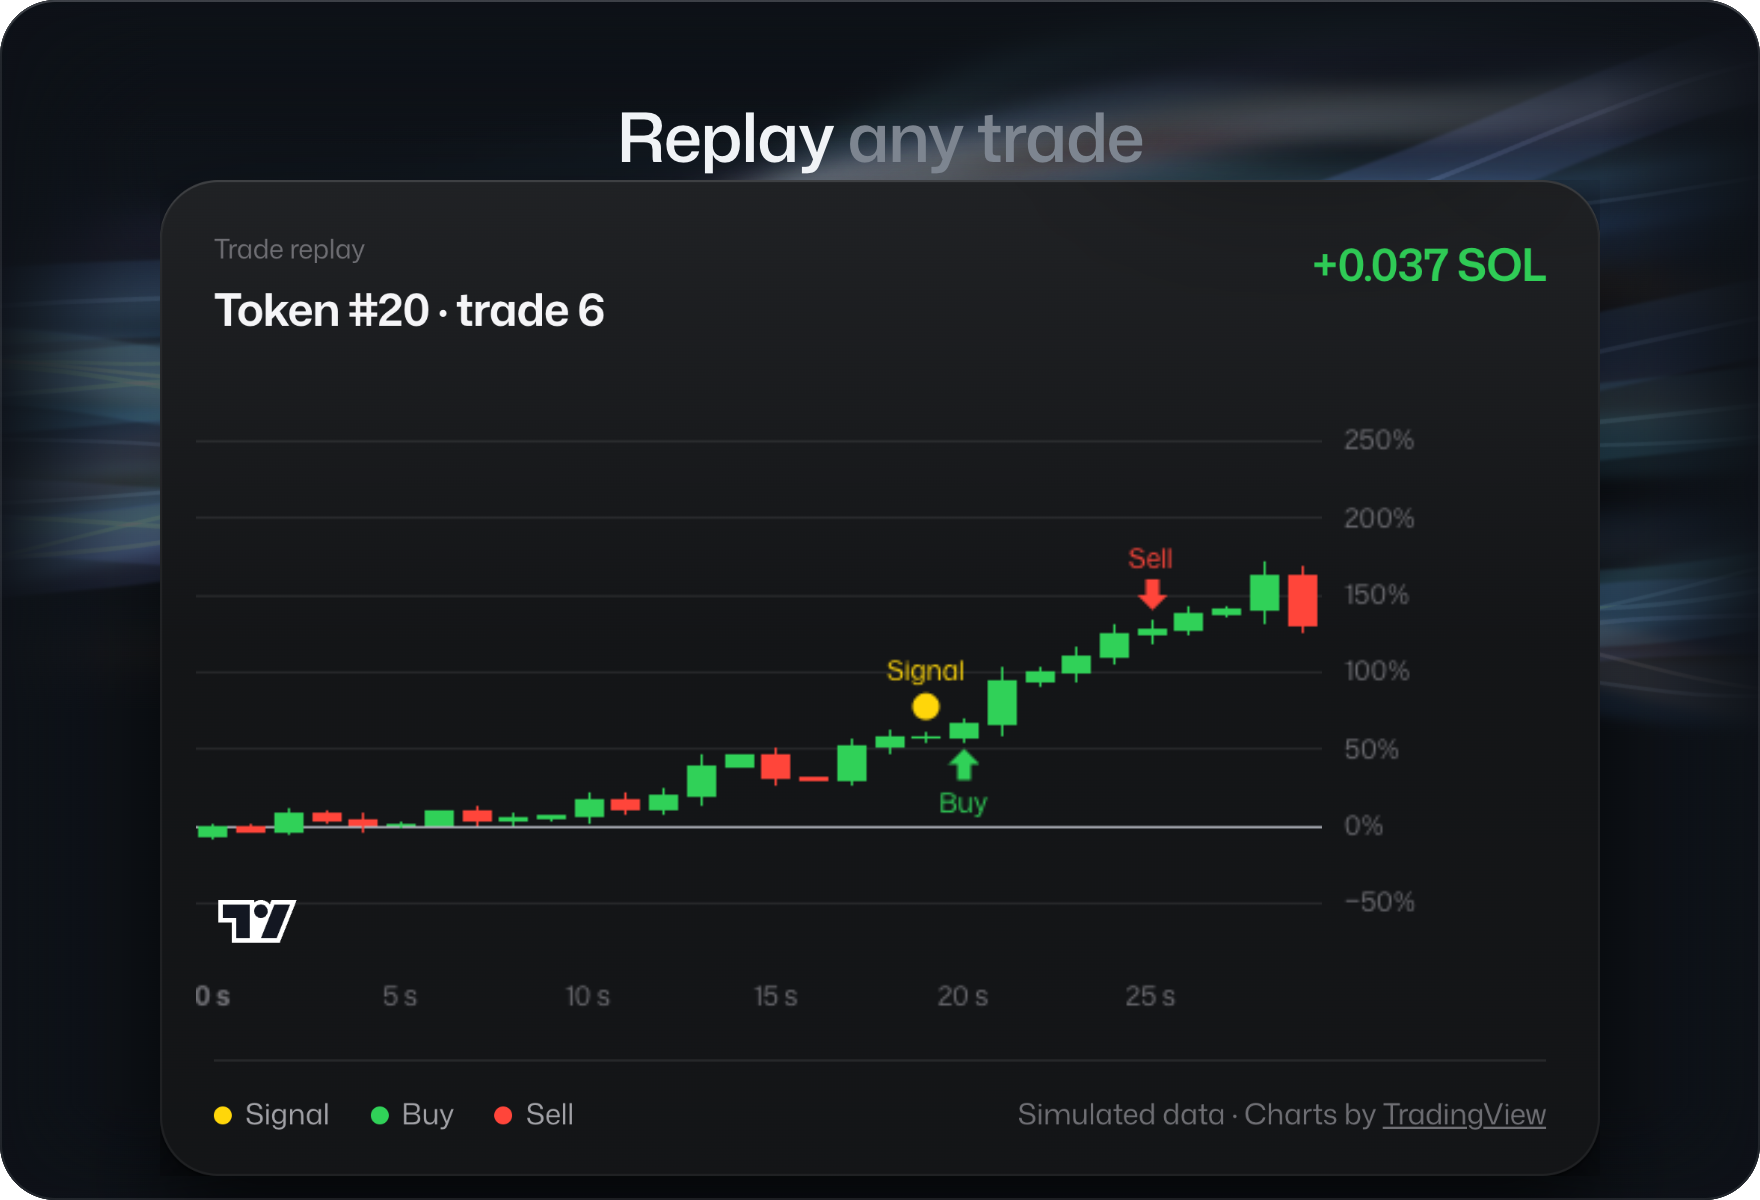
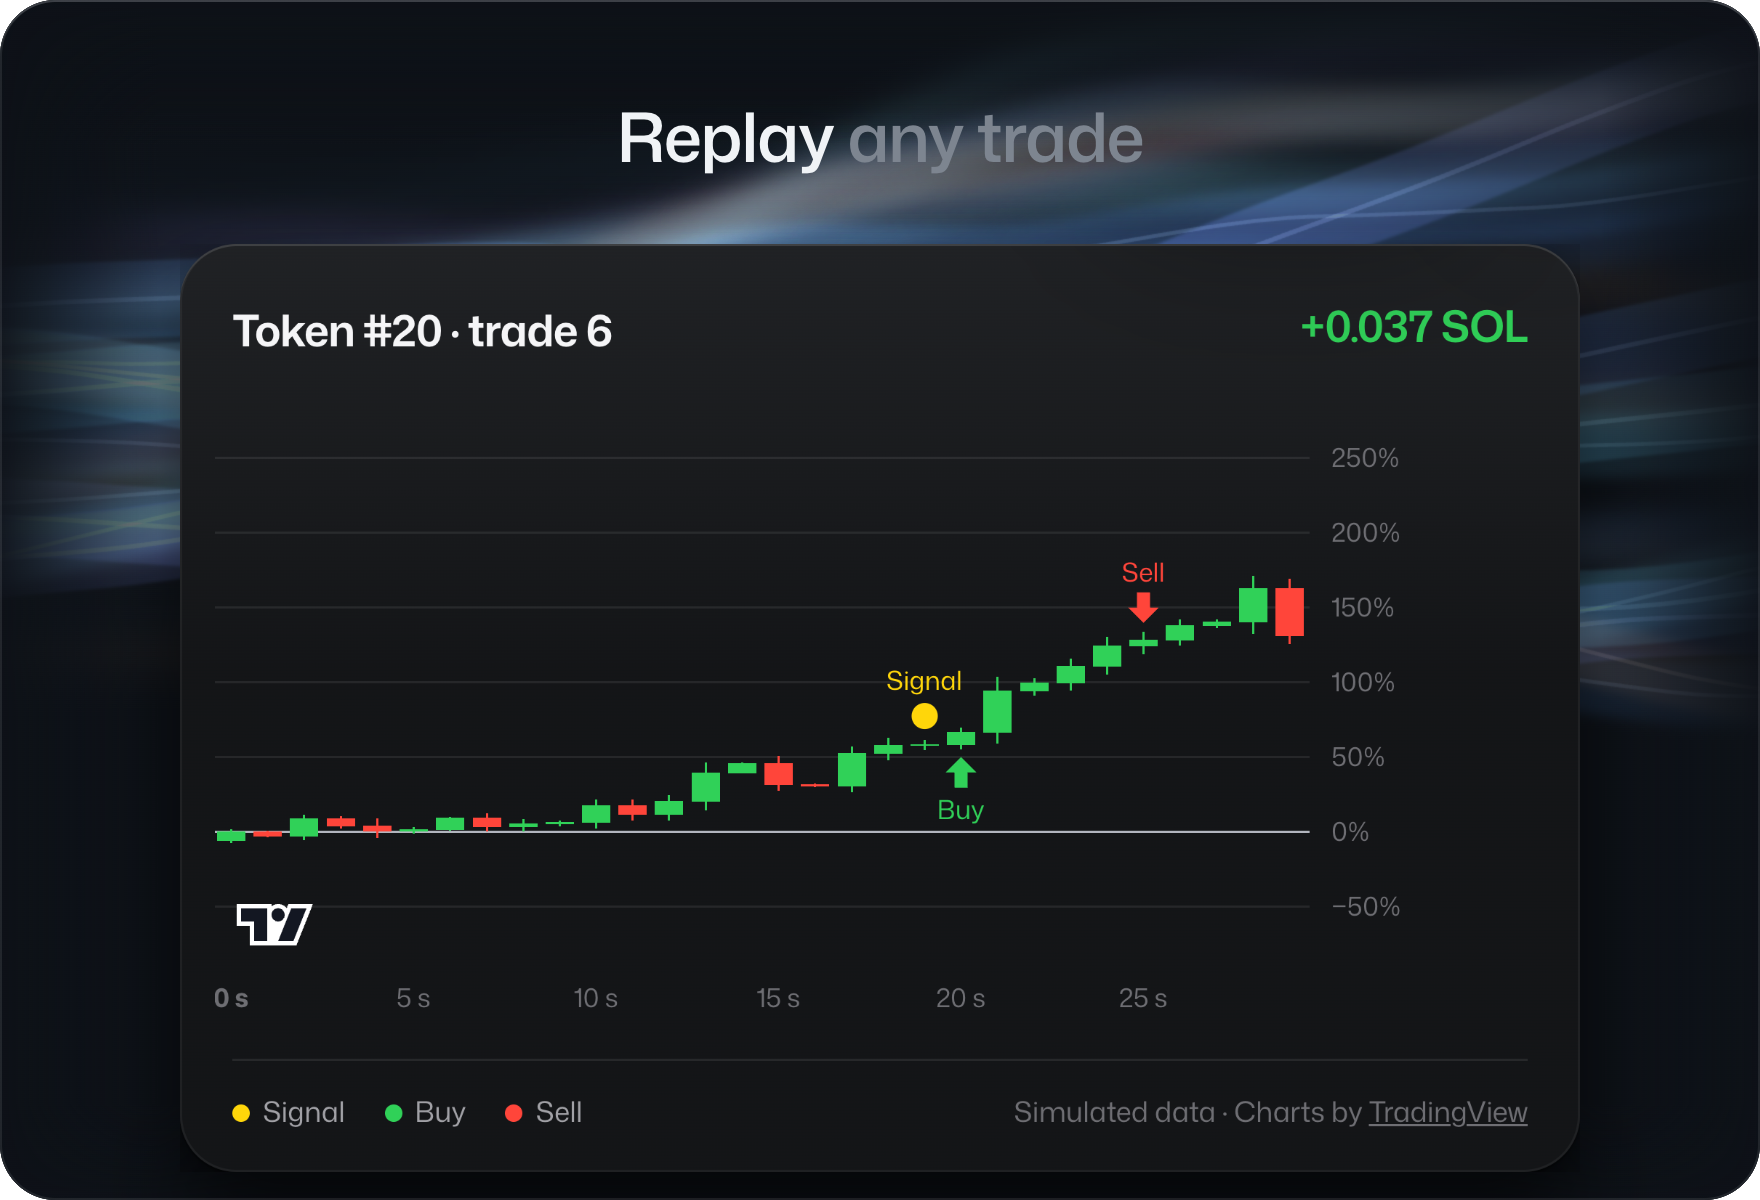
README: audience, stack, licence and scenes that stack on phones
State who PumpQuant is for and what it is built with, link the roadmap, and end with the licence. Scenes use a fixed 410 px width so they sit two by two on desktop and stack one per row on narrow screens. The replay scene is recaptured with its chart drawn at full resolution, without the card's small label, and with even spacing under its title.

diff --git a/README.md b/README.md
@@ -13,14 +13,16 @@
   <a href="#quick-start"><b>Quick start</b></a> ·
   <a href="#how-it-works"><b>How it works</b></a> ·
   <a href="#background"><b>Background</b></a> ·
-  <a href="docs/PARITY_CASE_STUDY.md"><b>Case study</b></a>
+  <a href="docs/PARITY_CASE_STUDY.md"><b>Case study</b></a> ·
+  <a href="ROADMAP.md"><b>Roadmap</b></a>
 </p>
 
 <p align="center">
   <img src="https://img.shields.io/badge/Python-3.12%2B-0a84ff?style=flat-square&labelColor=1c1c1e" alt="Python 3.12+">
   <img src="https://img.shields.io/badge/Rust-decoder-64d2ff?style=flat-square&labelColor=1c1c1e" alt="Rust decoder">
   <img src="https://img.shields.io/badge/mypy-strict-30d158?style=flat-square&labelColor=1c1c1e" alt="mypy strict">
-  <img src="https://img.shields.io/badge/tests-506%20passing-30d158?style=flat-square&labelColor=1c1c1e" alt="506 tests passing">
+  <img src="https://img.shields.io/badge/tests-508%20passing-30d158?style=flat-square&labelColor=1c1c1e" alt="508 tests passing">
+  <img src="https://img.shields.io/badge/license-MIT-a1a1a6?style=flat-square&labelColor=1c1c1e" alt="MIT license">
 </p>
 
 <br>
@@ -33,6 +35,8 @@
 <br>
 
 PumpQuant is a backtesting engine for [Pump.fun](https://pump.fun), the Solana market where new tokens launch and trade. Backtests often look better than live trading, and PumpQuant is built to close that gap: it replays Pump.fun trades with the delays, fees and failed transactions a live trader would have faced, and tests each strategy only on data it has never seen.
+
+It is for developers and researchers who build trading strategies for Pump.fun and need a backtest that holds up once the strategy trades live.
 
 <table>
   <tr>
@@ -49,6 +53,8 @@ PumpQuant is a backtesting engine for [Pump.fun](https://pump.fun), the Solana m
   </tr>
 </table>
 
+**Built with** Python 3.12+ and Rust. DuckDB and PyArrow handle the market data, NumPy and the arch library the statistics, and two Rust crates decode transactions and run the parallel strategy search. The dashboard is a small local web app, served by Python's standard library and drawn with TradingView's Lightweight Charts.
+
 ## The dashboard
 
 `pumpquant preview` opens the dashboard on a demo run. It leads with the answer, then compares the test periods, shows how each one was tested, and replays any trade:
@@ -56,19 +62,19 @@ PumpQuant is a backtesting engine for [Pump.fun](https://pump.fun), the Solana m
 <p align="center">
   <picture>
     <source media="(prefers-color-scheme: light)" srcset="assets/scene-answer-light.png">
-    <img src="assets/scene-answer.png" width="49%" alt="The dashboard's answer to whether a momentum rule holds up on data it has never seen: profitable in 2 of 3 test periods, 47 outcomes counted.">
+    <img src="assets/scene-answer.png" width="410" alt="The dashboard's answer to whether a momentum rule holds up on data it has never seen: profitable in 2 of 3 test periods, 47 outcomes counted.">
   </picture>
   <picture>
     <source media="(prefers-color-scheme: light)" srcset="assets/scene-periods-light.png">
-    <img src="assets/scene-periods.png" width="49%" alt="The combined result, +0.217 SOL across all test periods, beside test period 1 at -0.127 SOL and test period 2 at +0.268 SOL.">
+    <img src="assets/scene-periods.png" width="410" alt="The combined result, +0.217 SOL across all test periods, beside test period 1 at -0.127 SOL and test period 2 at +0.268 SOL.">
   </picture>
   <picture>
     <source media="(prefers-color-scheme: light)" srcset="assets/scene-replay-light.png">
-    <img src="assets/scene-replay.png" width="49%" alt="A replayed take-profit trade on token #20: the signal, a buy one second later and a sell five seconds after that, +0.037 SOL after fees.">
+    <img src="assets/scene-replay.png" width="410" alt="A replayed take-profit trade on token #20: the signal, a buy one second later and a sell five seconds after that, +0.037 SOL after fees.">
   </picture>
   <picture>
     <source media="(prefers-color-scheme: light)" srcset="assets/scene-method-light.png">
-    <img src="assets/scene-method.png" width="49%" alt="How each period is tested, drawn to scale: learn on the earlier tokens (18, then 24, then 30), then test on the next six.">
+    <img src="assets/scene-method.png" width="410" alt="How each period is tested, drawn to scale: learn on the earlier tokens (18, then 24, then 30), then test on the next six.">
   </picture>
 </p>
 
@@ -95,39 +101,24 @@ Run on this repository, the session looks like this:
 
 <p align="center"><sub>The commands above, run on 4 November 2026; the output is pasted verbatim.</sub></p>
 
-`examples/periods.py` prints the result of each test period in the demo. `examples/quote.py` uses the pricing engine directly. It prices a 0.1 SOL buy on a new token (SOL is Solana's currency), then prices the same buy again after someone else's 1 SOL buy lands first:
+`examples/periods.py` prints the result of each test period in the demo. `examples/quote.py` calls the pricing engine directly. Its first half prices a 0.1 SOL buy on a new token (SOL is Solana's currency):
 
 ```python
 from pumpquant.pricing.bonding_curve import pump_buy_exact_quote_in
 
-SOL = 1_000_000_000  # lamports
-TOKEN = 1_000_000  # Pump.fun tokens have six decimals
+SOL = 1_000_000_000  # lamports in one SOL; tokens have six decimals
 FEES = {"protocol_fee_bps": 100, "creator_fee_bps": 0}  # a 1% fee
-
-# A new token's bonding curve: virtual reserves, and the tokens it can still sell.
-curve = {
+curve = {  # a new token's bonding curve
     "virtual_base_reserve": 1_073_000_000_000_000,
     "virtual_quote_reserve": 30 * SOL,
     "real_base_reserve": 793_100_000_000_000,
 }
 
-first = pump_buy_exact_quote_in(gross_quote_amount=SOL // 10, **curve, **FEES)
-fee = first.total_fee_quote / SOL
-print(f"0.1 SOL buys {first.base_amount / TOKEN:,.0f} tokens, after a {fee:.5f} SOL fee")
-
-# Someone else's 1 SOL buy lands first and moves the curve.
-other = pump_buy_exact_quote_in(gross_quote_amount=SOL, **curve, **FEES)
-curve = {
-    "virtual_base_reserve": curve["virtual_base_reserve"] - other.base_amount,
-    "virtual_quote_reserve": curve["virtual_quote_reserve"] + other.curve_quote_amount,
-    "real_base_reserve": curve["real_base_reserve"] - other.base_amount,
-}
-late = pump_buy_exact_quote_in(gross_quote_amount=SOL // 10, **curve, **FEES)
-fewer = 1 - late.base_amount / first.base_amount
-print(f"one trade later it buys {late.base_amount / TOKEN:,.0f} tokens, {fewer:.1%} fewer")
+buy = pump_buy_exact_quote_in(gross_quote_amount=SOL // 10, **curve, **FEES)
+print(f"0.1 SOL buys {buy.base_amount / 1e6:,.0f} tokens")
 ```
 
-Being one trade late costs 6.3% of the tokens, which is why every replay in PumpQuant carries its real delay. `pumpquant demo` prints the demo's full report as JSON, including the rule each test period selected.
+It prints `0.1 SOL buys 3,529,605 tokens`. The second half lets someone else's 1 SOL buy land first, and the same 0.1 SOL then buys 6.3% fewer tokens. That is why every replay in PumpQuant carries its real delay. `pumpquant demo` prints the demo's full report as JSON, including the rule each test period selected.
 
 ## How it works
 
@@ -166,6 +157,7 @@ examples/        the Quick start scripts and the recorded demo output
 scripts/         the Rust and Python decoder parity check
 schemas/         the pinned Pump program event layouts
 docs/            architecture, decisions, status, provenance and the case study
+ROADMAP.md       the work still ahead
 ```
 
 Each module's original name is in [docs/MODULE-MAP.md](docs/MODULE-MAP.md).
@@ -201,7 +193,7 @@ A take-profit is a sell triggered when the price reaches its target. The price r
 
 ## Development
 
-One command runs every check: ruff, mypy in strict mode on 112 source files, the 506 Python tests, the two examples, the 16 Rust tests with warnings as errors, and a parity check of the Rust decoder against the Python one on 220 fixtures.
+One command runs every check: ruff, mypy in strict mode on 112 source files, the 508 Python tests, the two examples, the 16 Rust tests with warnings as errors, and a parity check of the Rust decoder against the Python one on 220 fixtures.
 
 ```sh
 make check
@@ -211,7 +203,7 @@ Its output on this repository:
 
 <picture>
   <source media="(prefers-color-scheme: light)" srcset="assets/check-light.png">
-  <img src="assets/check.png" width="100%" alt="make check: ruff clean, files formatted, mypy clean on 112 source files, 506 tests passed, both examples run, Rust tests 9, 2, 3 and 2 passed, and decoder parity on 16 valid, 4 malformed and 200 differential fixtures.">
+  <img src="assets/check.png" width="100%" alt="make check: ruff clean, files formatted, mypy clean on 112 source files, 508 tests passed, both examples run, Rust tests 9, 2, 3 and 2 passed, and decoder parity on 16 valid, 4 malformed and 200 differential fixtures.">
 </picture>
 
 <p align="center"><sub>An excerpt of a real run on 4 November 2026; progress, compiler lines and the examples' output are left out. <a href="docs/STATUS.md">Status</a> lists every verified result, with exact versions.</sub></p>
@@ -223,6 +215,11 @@ Its output on this repository:
 - [Case study](docs/PARITY_CASE_STUDY.md): the audit that led to the rebuild
 - [Status](docs/STATUS.md): what was verified for this release, its scope and its limits
 - [Provenance](docs/PROVENANCE.md): what changed in this release, third-party notices and licences
+- [Roadmap](ROADMAP.md): the work still ahead
+
+## License
+
+MIT. The bundled Lightweight Charts (Apache-2.0) and dashboard fonts (SIL Open Font License) keep their own licences, listed in [Provenance](docs/PROVENANCE.md).
 
 <br>
 
